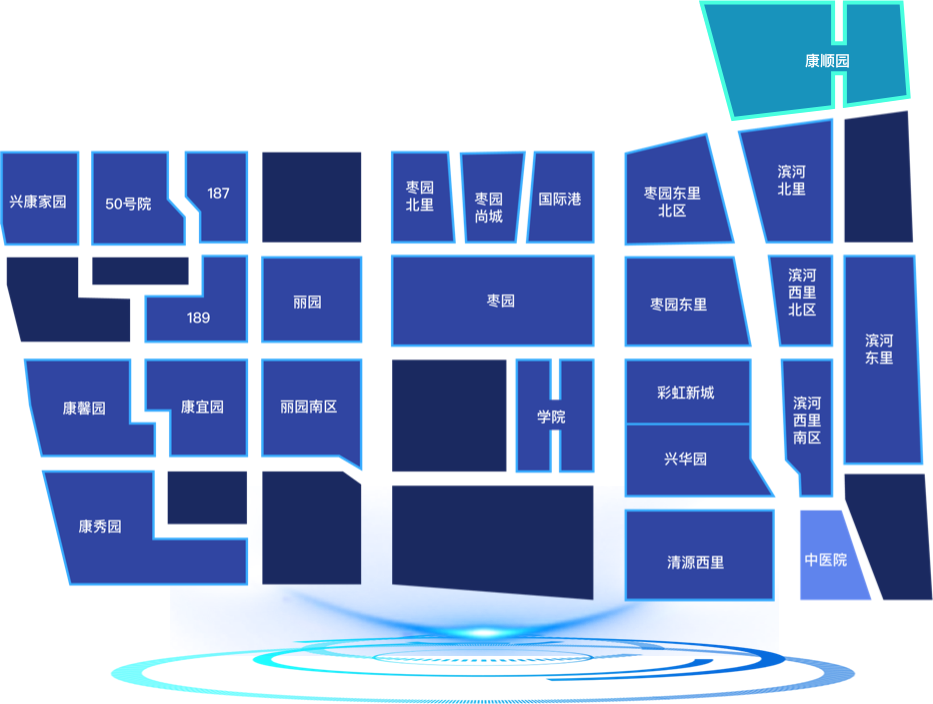
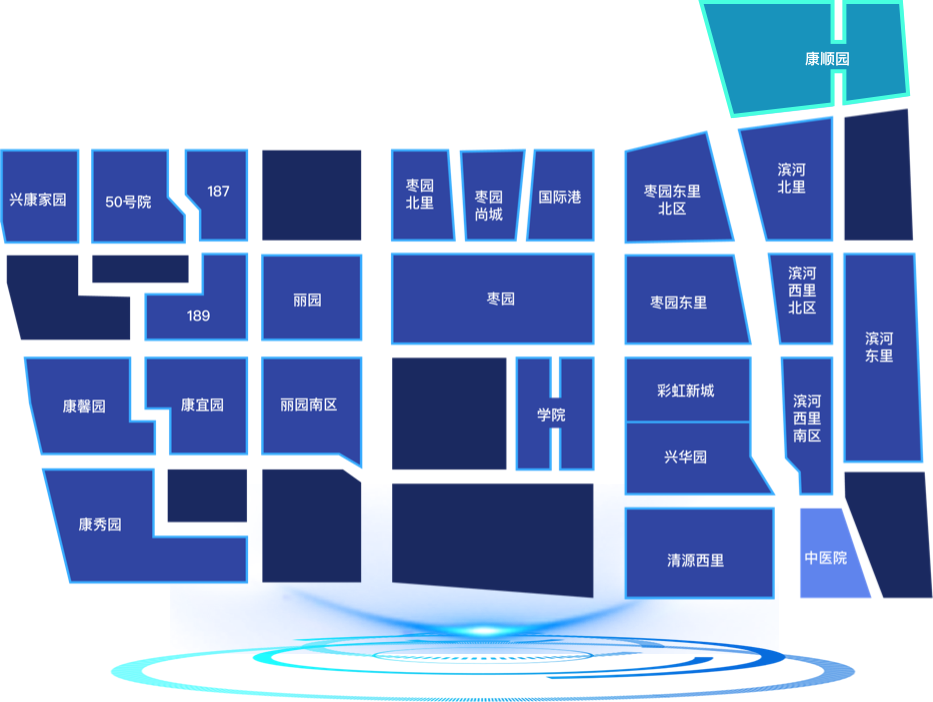
lm

diff --git a/src/views/main/index.vue b/src/views/main/index.vue
@@ -114,11 +114,11 @@
                       }
                     },
                     legend:{
-                      top:'75%',
+                      top:'70%',
                       itemWidth:10,
                       itemHeight:10,
                       icon:'circle',
-                      itemGap:20,
+                      padding:[0,15,0,15],
                       textStyle:{
                         color:'#fff',
                         fontSize:18,
@@ -163,7 +163,7 @@
             <div class="medical-data">
               <div class="medical-total-item">
                 <div class="list-item" v-for="(monitorItem, index) in monitoringData" :key="index" @click="gotoDetailPageByindex(index)">
-                  <div class="value">{{ monitorItem.value }}</div>
+                  <div class="value">{{ monitorItem.value.value }}</div>
                   <div class="text">{{ monitorItem.text }}</div>
                 </div>
               </div>
@@ -172,7 +172,7 @@
                   <div class="detail-item" v-for="(item, index) in healthData" :key="index">
                     <div class="item-img" :class="[getHealthImg(index)]"></div>
                     <div class="item-content">
-                      <div class="value">{{ item.value }}</div>
+                      <div class="value">{{ item.value.value }}</div>
                       <div class="text">{{ item.text }}</div>
                     </div>
                   </div>
@@ -422,12 +422,13 @@ export default {
         width: 1169px;
         margin-bottom: 34px;
         background-image: url('../../assets/imgs/Group 1.png');
+        position: relative;
         .org-content{
           display: flex;
           height: 315px;
-          justify-content: center;
+          // justify-content: center;
           padding-top: 56px;
-          margin-left: 20px;
+          margin-left: 22px;
           .org-title{
             height:303px;
             width: 50px;
@@ -482,9 +483,12 @@ export default {
           }
           .org-pie{
             width: 512px;
-            height: 315px;
+            height: 350px;
             display: flex;
             margin-right: 12px;
+            position: absolute;
+            right: 18px;
+            top: 36px;
             .chart-item{
               width: 50%;
               height: 100%;

diff --git a/src/components/charts/ringChart.vue b/src/components/charts/ringChart.vue
@@ -110,9 +110,10 @@ export default {
   methods: {
     initChart() {
       this.chart = this.$echarts.init(document.getElementById(this.chartUniqueId))
-      this.options.series[0].data = this.data
-      this.options.series[1].data = this.data
-      this.options.series[2].data = this.data
+      const newData = this.data
+      this.options.series[0].data = newData
+      this.options.series[1].data = newData
+      this.options.series[2].data = newData
       this.chart.setOption(this.options)
     }
   }

diff --git a/src/views/main/map-com/map.vue b/src/views/main/map-com/map.vue
@@ -91,7 +91,7 @@ export default {
     position: absolute;
     top: 4px;
     left: 0;
-    height: 704px;
+    height: 702px;
     width: 933px;
     display: none;
     &.show{
@@ -173,7 +173,7 @@ export default {
   }
   .map-content{
     width:937px;
-    height: 705px;
+    height: 702px;
     margin-bottom: 20px;
     background-image: url('../../../assets/imgs/地图.png');
     position: relative;
